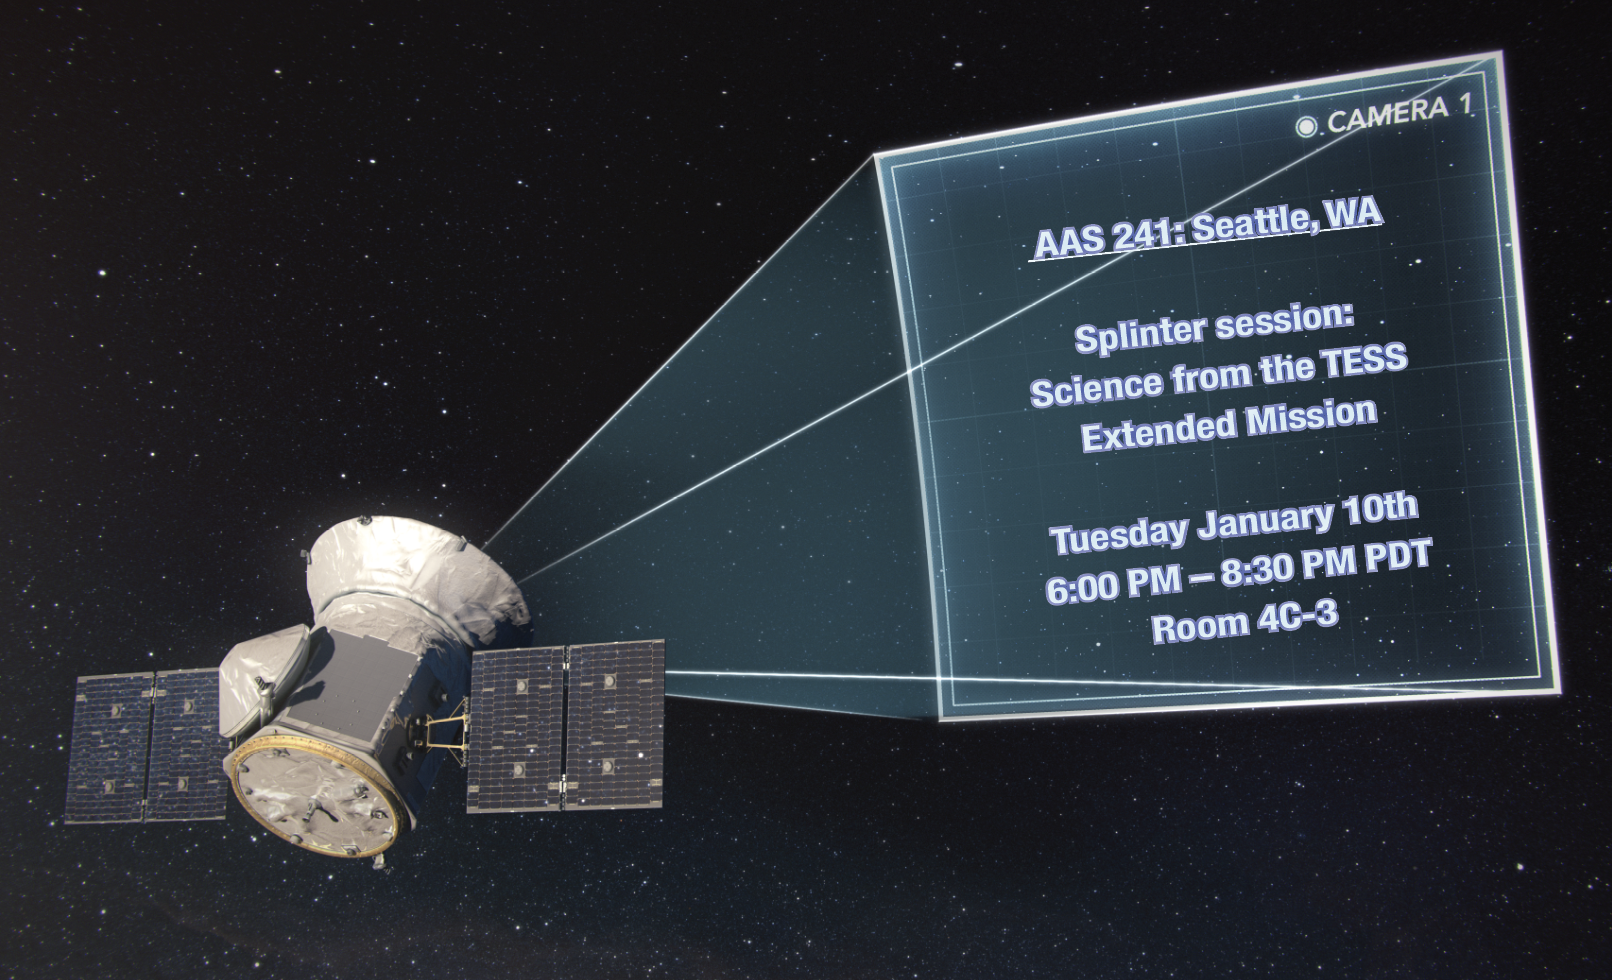
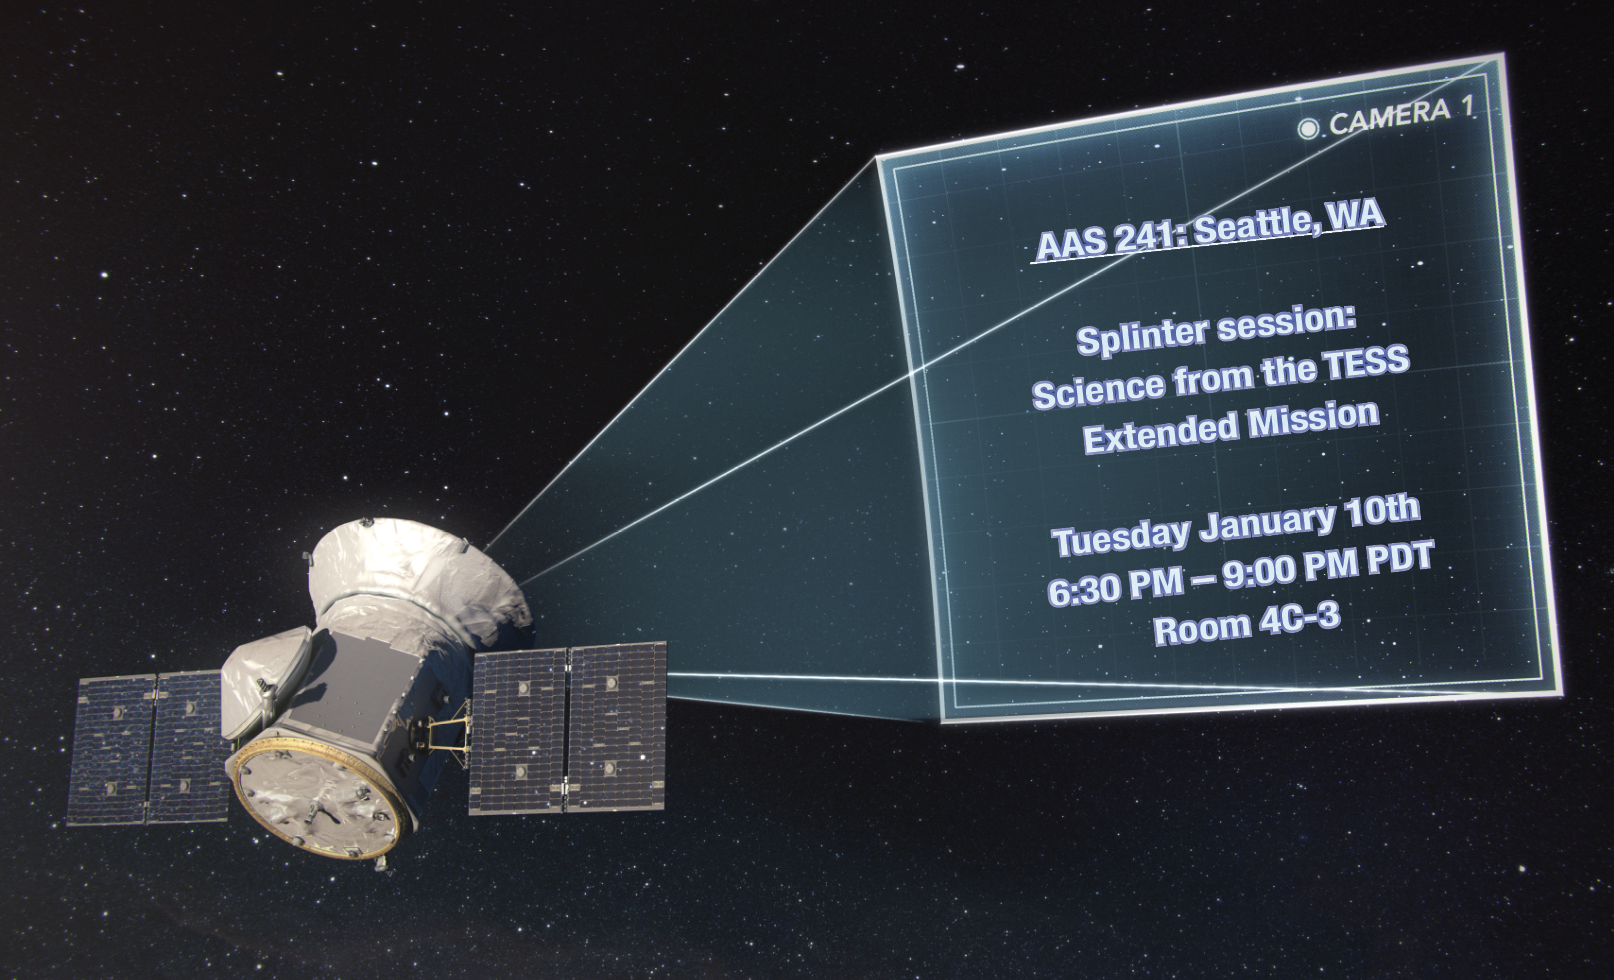
updated time for splinter session

diff --git a/content/news/tess-ass-2023.md b/content/news/tess-ass-2023.md
@@ -1,8 +1,8 @@
 Title: TESS Splinter Session at AAS 241
-Date: 2022-11-28 10:00
+Date: 2022-12-02 10:00
 Author: Rebekah Hounsell
 
-The TESS team is hosting a TESS Splinter Session at AAS 241 on Tuesday, January 10th, 2023 from 6pm-8:30pm PST at the Seattle Conference Center, Room 4c-3.
+The TESS team is hosting a TESS Splinter Session at AAS 241 on Tuesday, January 10th, 2023 from 6:30pm-9:00pm PST at the Seattle Conference Center, Room 4c-3.
  
 NASA's Transiting Exoplanet Survey Satellite (TESS) has been in operation since July 2018, monitoring millions of stars across the entire sky and discovering thousands of exoplanets and exoplanet candidates. TESS's capability for precision photometry over long time baselines, as well as open access to TESS data, have resulted in extraordinarily high scientific output from the mission across a broad range of astrophysics.
  
